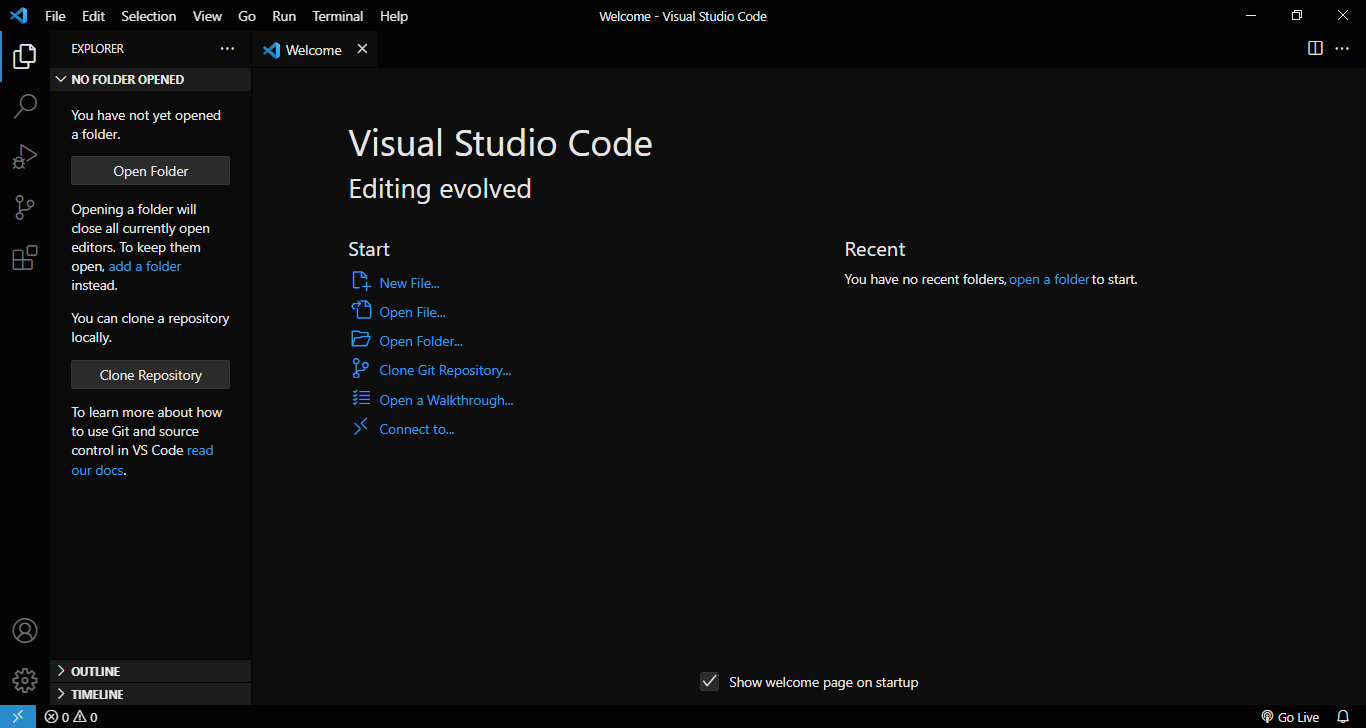
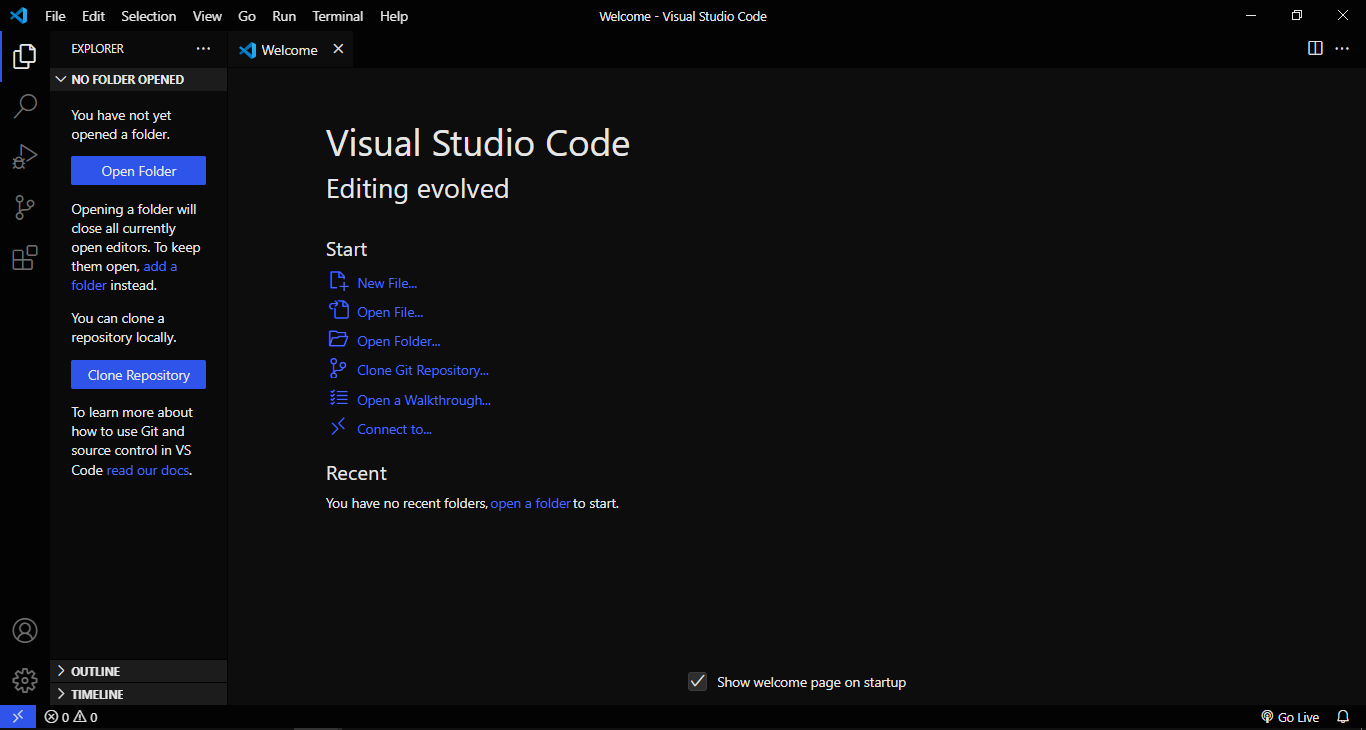
Initial commit

diff --git a/reference.scss b/reference.scss
@@ -24,10 +24,11 @@
    --color-light-000: #1f1f1f;
 
    // Editor Color Indigo
-   --color-indigo-100: #6b87fa;
-   --color-indigo-200: #486bf9;
-   --color-indigo-300: #3e63f4;
-   --color-indigo-400: #2f54e9;
-   --color-indigo-500: #284bd7;
-   --color-indigo-600: #3147b4;
+   --color-indigo-100: #5273fa;
+   --color-indigo-200: #3e63f4;
+   --color-indigo-300: #2f54e9;
+   --color-indigo-400: #284bd7;
+   --color-indigo-500: #3147b4;
+
+   --color: #f2f2f215;
 }

diff --git a/changelog.md b/changelog.md
@@ -1,14 +1,18 @@
 # Changelog
 
-All notable changes to the **"Enhance Monokai"** theme extension will be documented in this file.
-Please check [**Keep a Changelog**](https://keepachangelog.com/) to structured this file.
+All notable changes to the **"Enhance Monokai"** theme extension will be documented in this file. Please check [**Keep a Changelog**](https://keepachangelog.com/) to structured this file.
 
-## v1.0.0
+## v1.2.0
 
--  Initial release
+-  Update panel color
+-  Update terminal color
 
 ## v1.1.0
 
 -  Update button color
 -  Update checkbox color
 -  Update minimap color
+
+## v1.0.0
+
+-  Initial release

diff --git a/readme.md b/readme.md
@@ -1,5 +1,5 @@
 <p align="center">
-    <img src="./assets/monokai-logo.png" width="120" height="120">
+    <img src="./assets/monokai-logo.png" width="115" height="115">
     <h1 align="center">Enhance Monokai</h1>
 </p>
 
